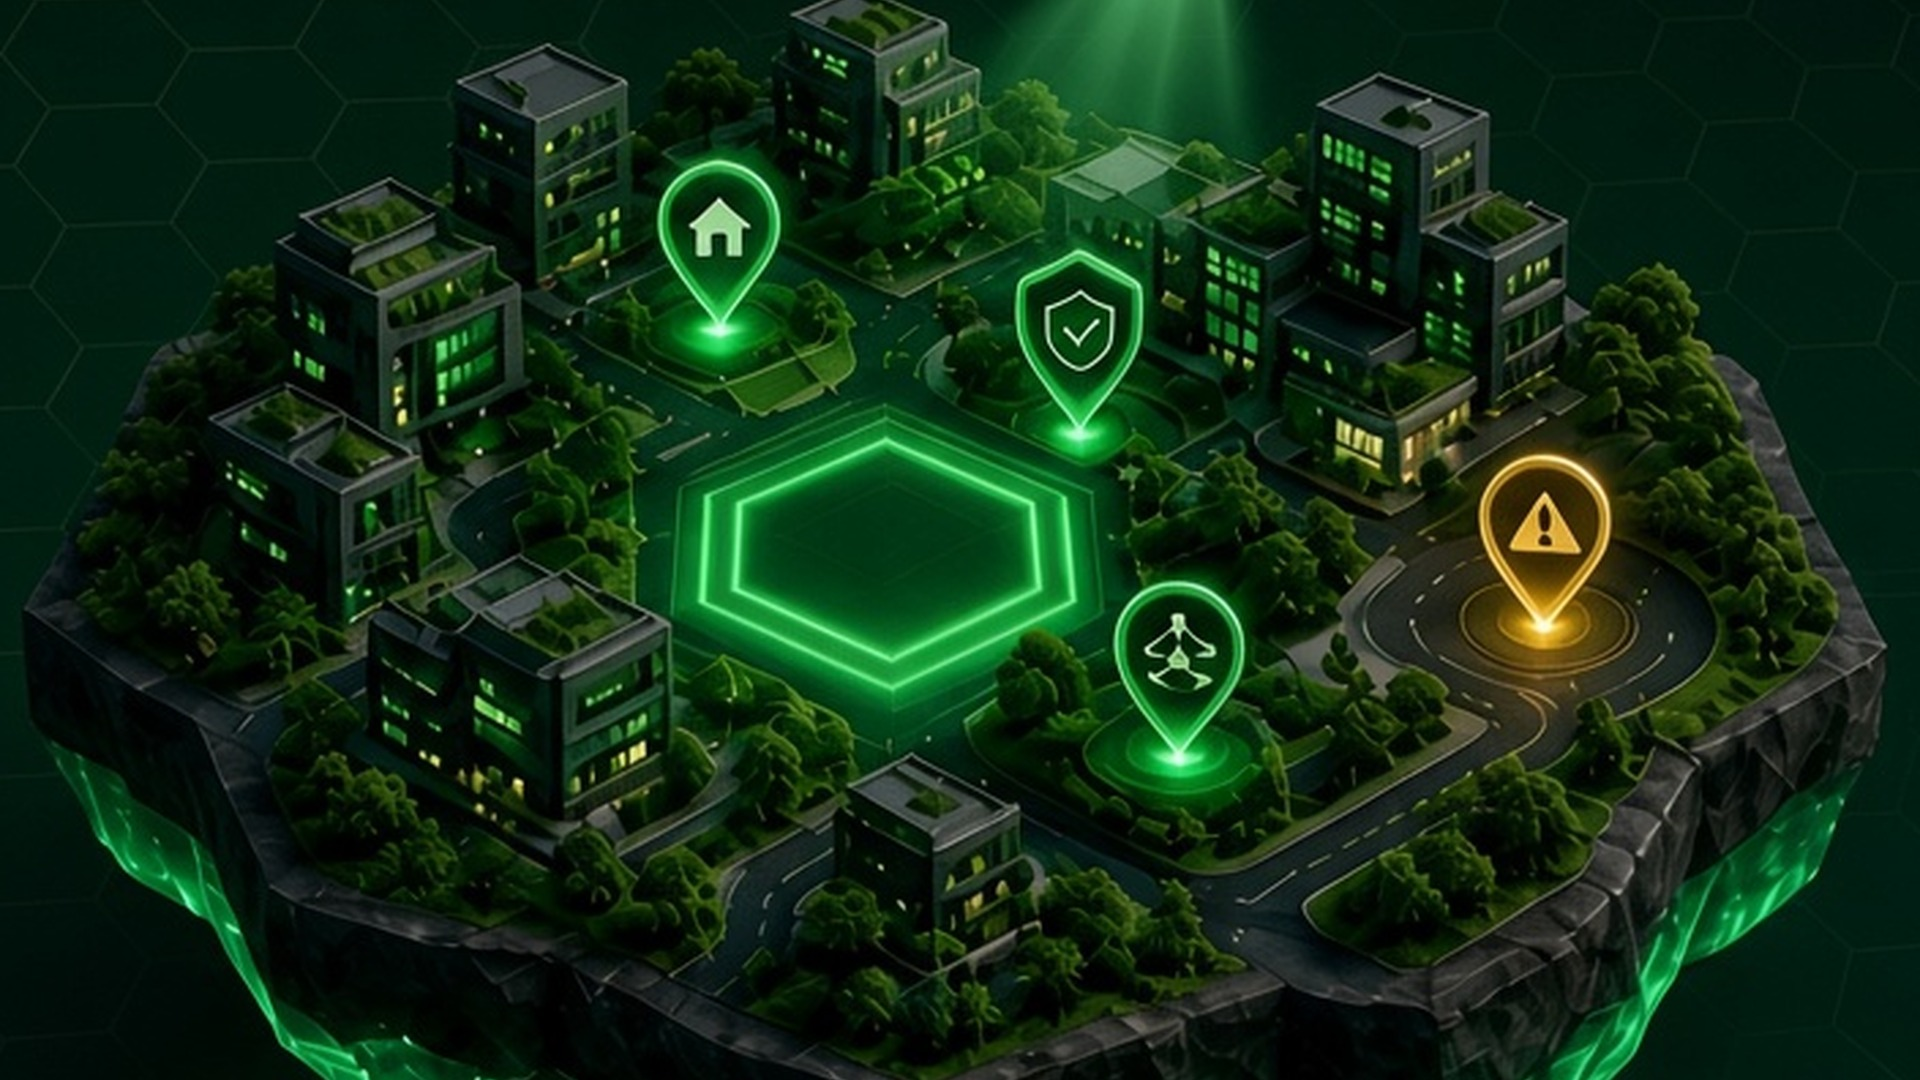
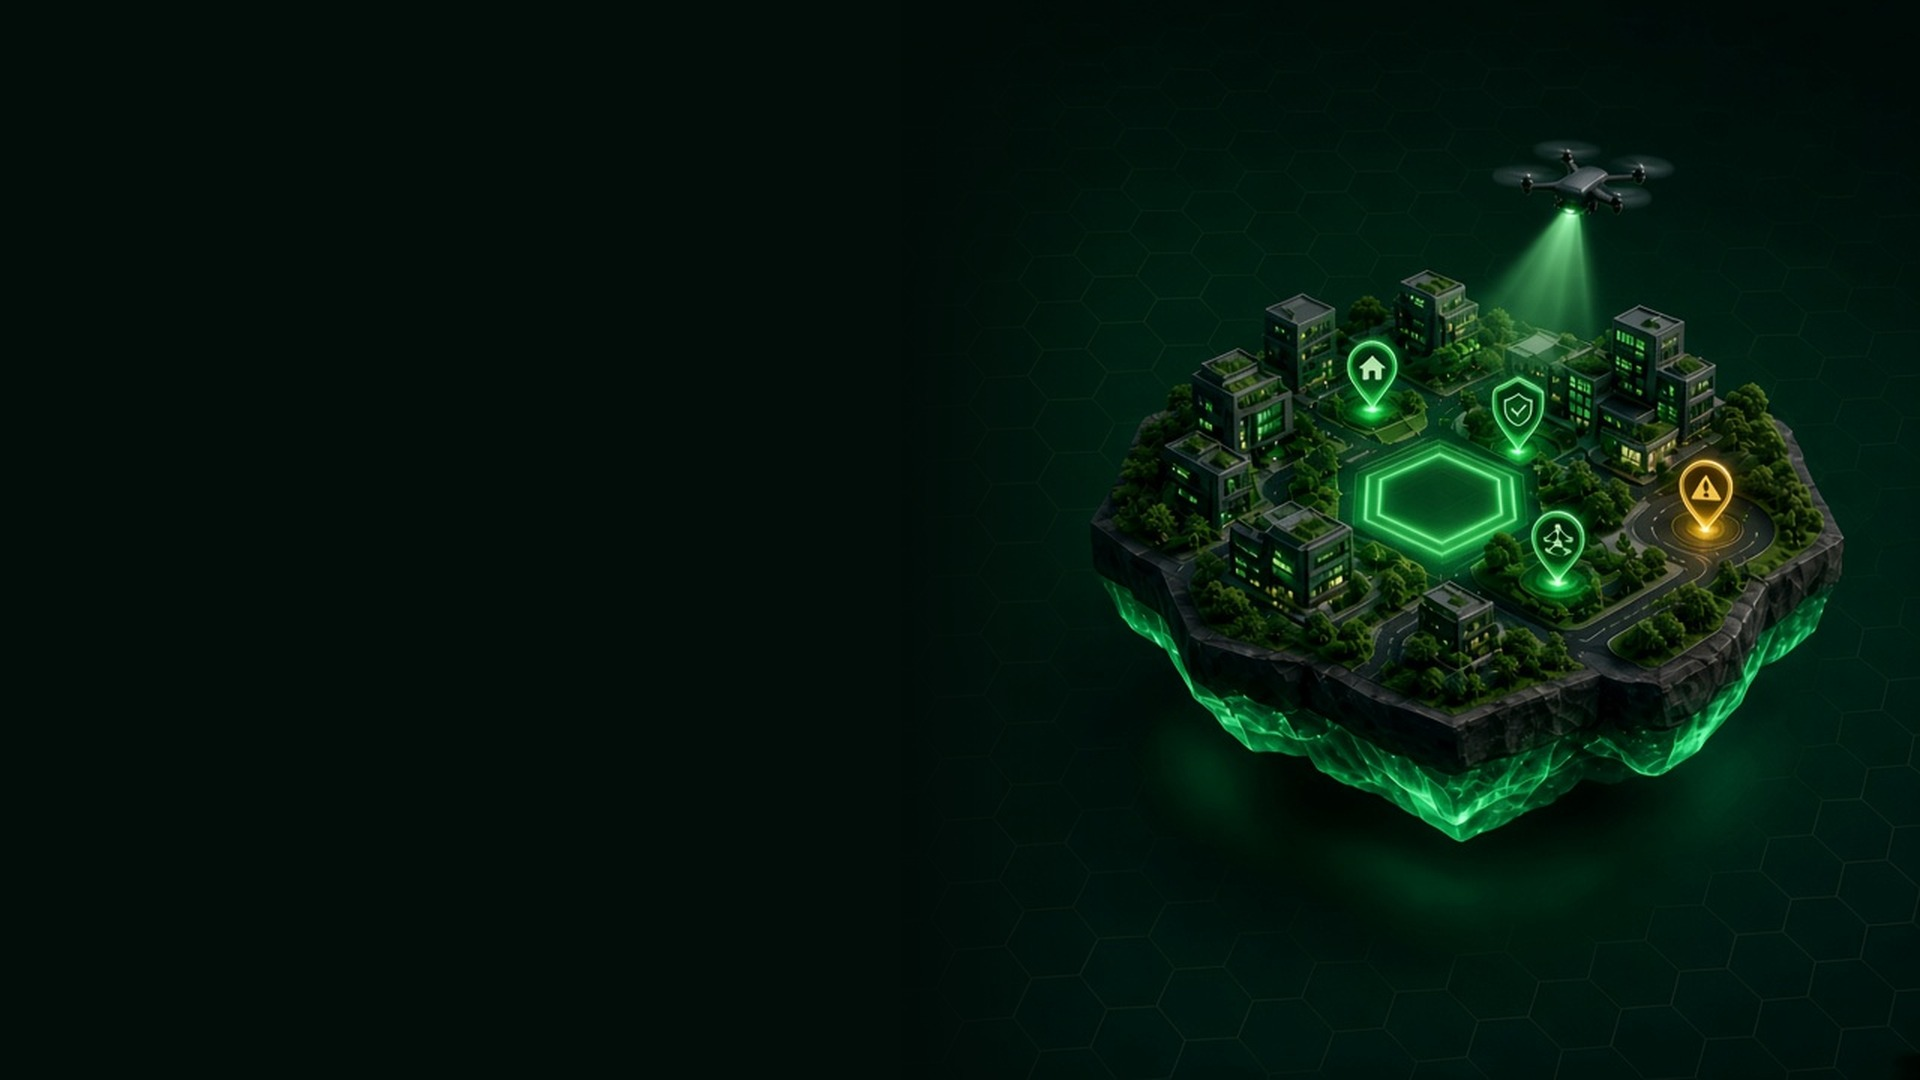
place the hero city on the right

diff --git a/src/styles.css b/src/styles.css
@@ -713,7 +713,7 @@ p {
     linear-gradient(160deg, #021406 0%, #062e10 42%, #0a3815 100%);
 }
 
-/* Full-bleed hero image; the city spans the width */
+/* Full-bleed hero. The city is painted on the right of the image; the left stays dark. */
 .hero__media {
   position: absolute;
   inset: 0;
@@ -735,9 +735,9 @@ p {
   background:
     linear-gradient(
       90deg,
-      rgba(2, 20, 6, 0.62) 0%,
-      rgba(3, 30, 10, 0.28) 28%,
-      transparent 52%
+      rgba(2, 20, 6, 0.72) 0%,
+      rgba(3, 30, 10, 0.38) 38%,
+      transparent 64%
     ),
     linear-gradient(
       180deg,
@@ -1152,7 +1152,7 @@ p {
     margin-top: 28px;
   }
   .hero__media-img {
-    object-position: center center;
+    object-position: right center;
   }
 
   /* Feature strip: 3 + 2, centred, no dividers */

diff --git a/src/components/Hero.tsx b/src/components/Hero.tsx
@@ -73,7 +73,7 @@ export function Hero() {
       <div className="hero__media" aria-hidden="true">
         <img
           className="hero__media-img"
-          src="/assets/hero-main.jpg?v=9"
+          src="/assets/hero-main.jpg?v=10"
           width={1920}
           height={1080}
           fetchPriority="high"
